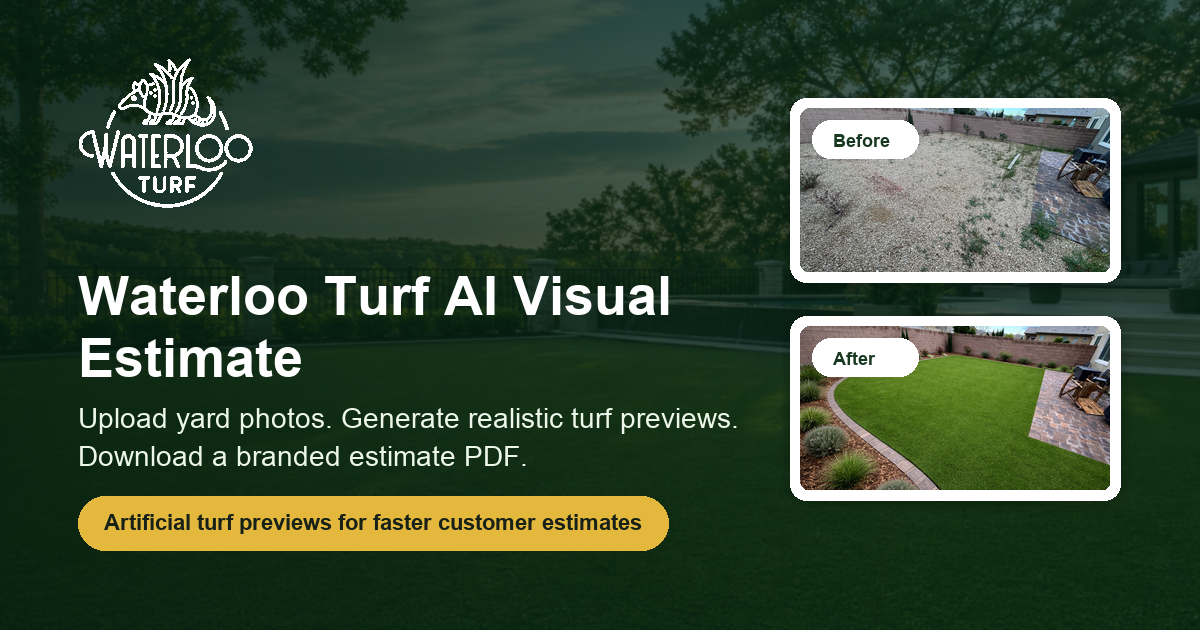
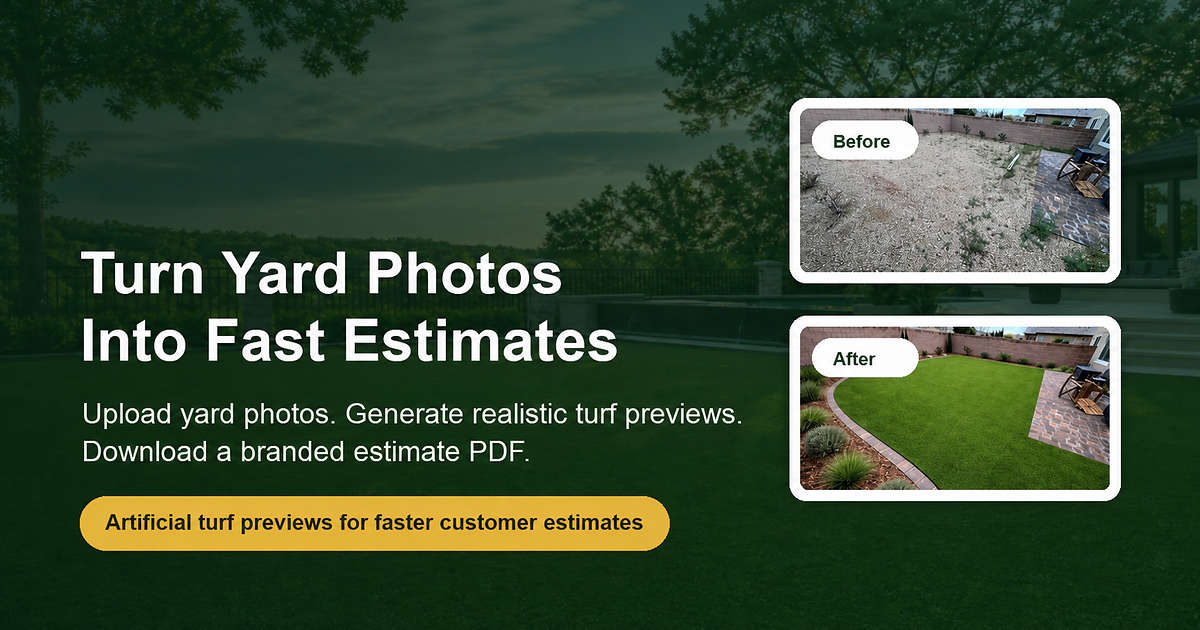
Use generic og-image and genericize social meta tags
Replace Waterloo-branded social image with a generic "Turn Yard Photos
Into Fast Estimates" card (no brand logo), since the app is multi-tenant.
Update index.html OG/Twitter meta + page title to match.

diff --git a/index.html b/index.html
@@ -5,24 +5,24 @@
     <meta name="viewport" content="width=device-width, initial-scale=1.0" />
     <meta
       name="description"
-      content="Waterloo Turf AI-powered visual estimate funnel"
+      content="AI-powered visual estimate funnel — turn yard photos into fast, branded estimates."
     />
     <meta property="og:type" content="website" />
-    <meta property="og:site_name" content="Waterloo Turf" />
-    <meta property="og:title" content="Waterloo Turf AI Visual Estimate" />
+    <meta property="og:site_name" content="AI Visual Estimate" />
+    <meta property="og:title" content="Turn Yard Photos Into Fast Estimates" />
     <meta
       property="og:description"
-      content="Upload yard photos, generate realistic turf previews, and download a branded visual estimate PDF."
+      content="Upload yard photos, generate realistic turf previews, and download a branded estimate PDF."
     />
     <meta property="og:image" content="/og-image.png" />
-    <meta property="og:image:alt" content="Waterloo Turf AI visual estimate preview" />
+    <meta property="og:image:alt" content="AI visual estimate — before/after yard turf preview" />
     <meta property="og:image:width" content="1200" />
     <meta property="og:image:height" content="630" />
     <meta name="twitter:card" content="summary_large_image" />
-    <meta name="twitter:title" content="Waterloo Turf AI Visual Estimate" />
+    <meta name="twitter:title" content="Turn Yard Photos Into Fast Estimates" />
     <meta
       name="twitter:description"
-      content="Upload yard photos, generate realistic turf previews, and download a branded visual estimate PDF."
+      content="Upload yard photos, generate realistic turf previews, and download a branded estimate PDF."
     />
     <meta name="twitter:image" content="/og-image.png" />
     <link rel="icon" href="/favicon.ico" sizes="any" />
@@ -30,7 +30,7 @@
     <link rel="icon" type="image/png" sizes="16x16" href="/favicon-16x16.png" />
     <link rel="apple-touch-icon" sizes="180x180" href="/apple-touch-icon.png" />
     <link rel="manifest" href="/site.webmanifest" />
-    <title>Waterloo Turf AI Visual Estimate</title>
+    <title>Turn Yard Photos Into Fast Estimates</title>
   </head>
   <body>
     <div id="root"></div>